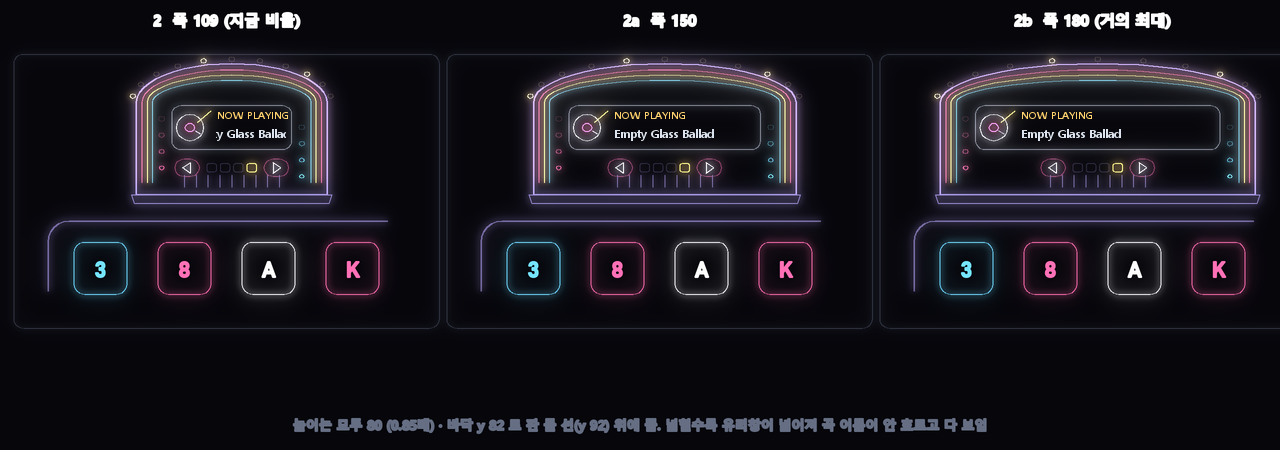
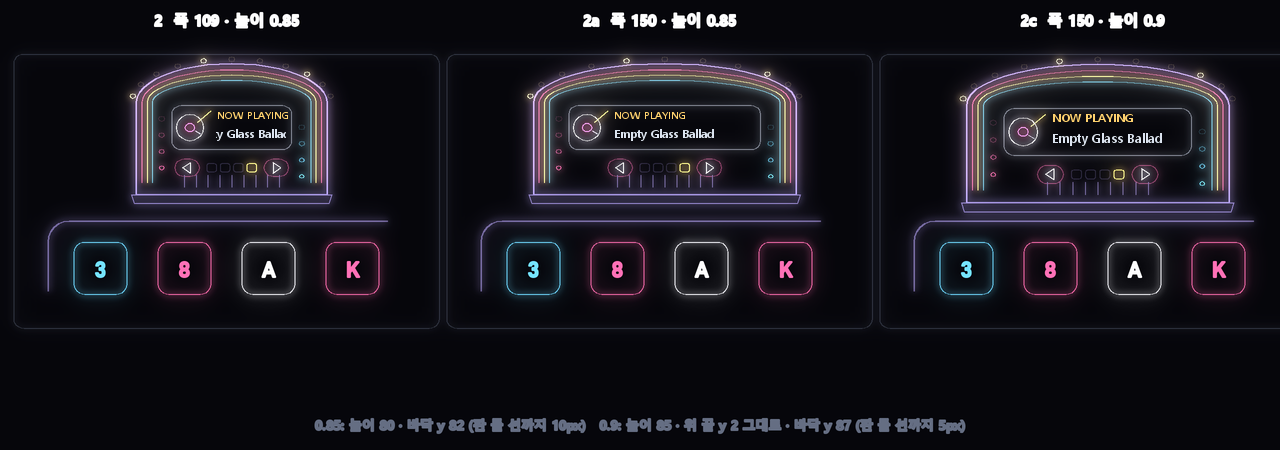
시안: 주크박스 폭 150 · 높이 0.9 (2c)

diff --git a/tools/neon/jukebox_wide_mock.py b/tools/neon/jukebox_wide_mock.py
@@ -30,16 +30,17 @@ def main(outdir):
     os.makedirs(outdir, exist_ok=True)
     M, T = Sign(0.8), []
     M.small_glow = 0.0
-    for n, (wpx, cap) in enumerate(((109, '2  폭 109 (지금 비율)'), (150, '2a  폭 150'), (180, '2b  폭 180 (거의 최대)'))):
+    # 2c (사용자: 2a 를 높이 0.9배로): 폭 150 · 높이 85 · 위 끝은 지금처럼 y 2, 바닥 y 87 (판 틀 선까지 5px)
+    for n, (wpx, k, bot, cap) in enumerate(((109, 0.85, 82.0, '2  폭 109 · 높이 0.85'), (150, 0.85, 82.0, '2a  폭 150 · 높이 0.85'), (150, 0.9, 87.0, '2c  폭 150 · 높이 0.9'))):
         px = 20 + n * (PANEL_W + GAP)
         M.word(px + PANEL_W / 2, 66, cap, WHITE, 15, font=FONT_KO)
         M.rr(px - 6, SH.TOP - 6, PANEL_W + 12, 150 * SH.Z + 12, 10, DIM, 1.0, 0.35)
         SH.board(M, px)
-        J.JW = wpx / K
+        J.JW = wpx / k
         x0 = CXJ - wpx / 2
-        J.jukebox(M, T, *SH.S(px, x0, BOT - J.JH * K), K * SH.Z, 0.3, 3, -10, 1)
+        J.jukebox(M, T, *SH.S(px, x0, bot - J.JH * k), k * SH.Z, 0.3, 3, -10, 1)
     J.JW = 128
-    M.word(640, 470, '높이는 모두 80 (0.85배) · 바닥 y 82 로 판 틀 선(y 92) 위에 뜸. 넓힐수록 유리창이 넓어져 곡 이름이 안 흐르고 다 보임', DIM, 13, font=FONT_KO)
+    M.word(640, 470, '0.85: 높이 80 · 바닥 y 82 (판 틀 선까지 10px)   0.9: 높이 85 · 위 끝 y 2 그대로 · 바닥 y 87 (판 틀 선까지 5px)', DIM, 13, font=FONT_KO)
     img = M.draw()
     d = ImageDraw.Draw(img)
     for t in T:
